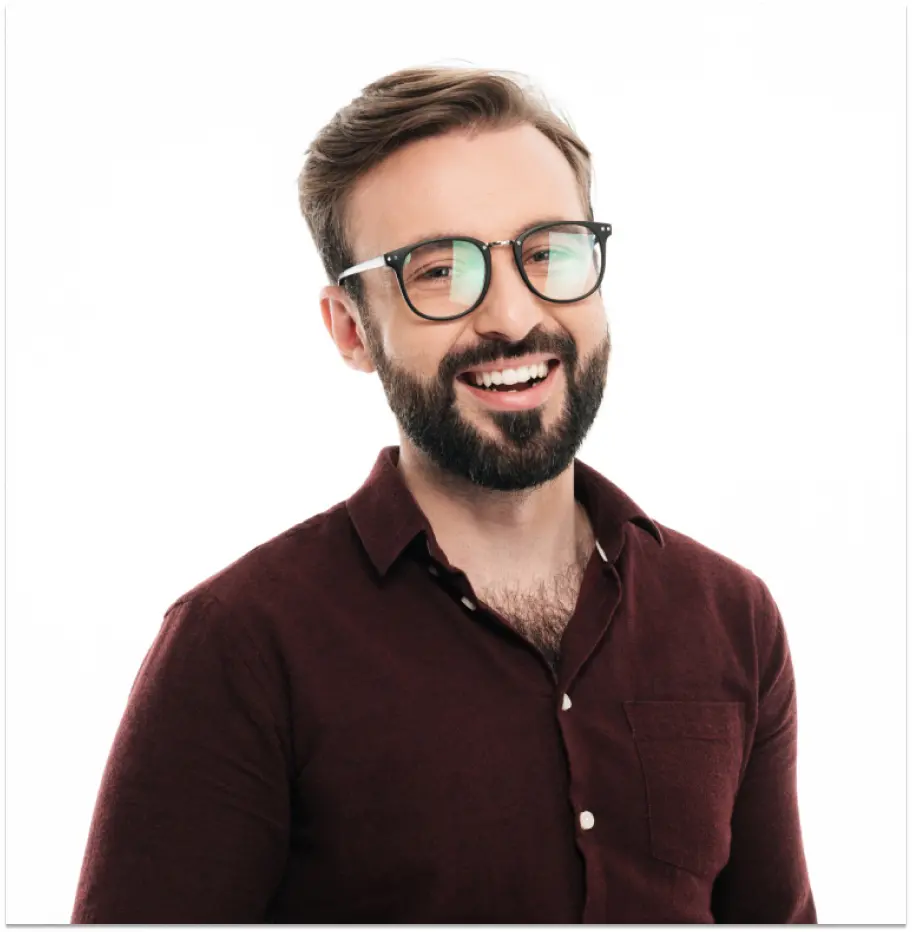
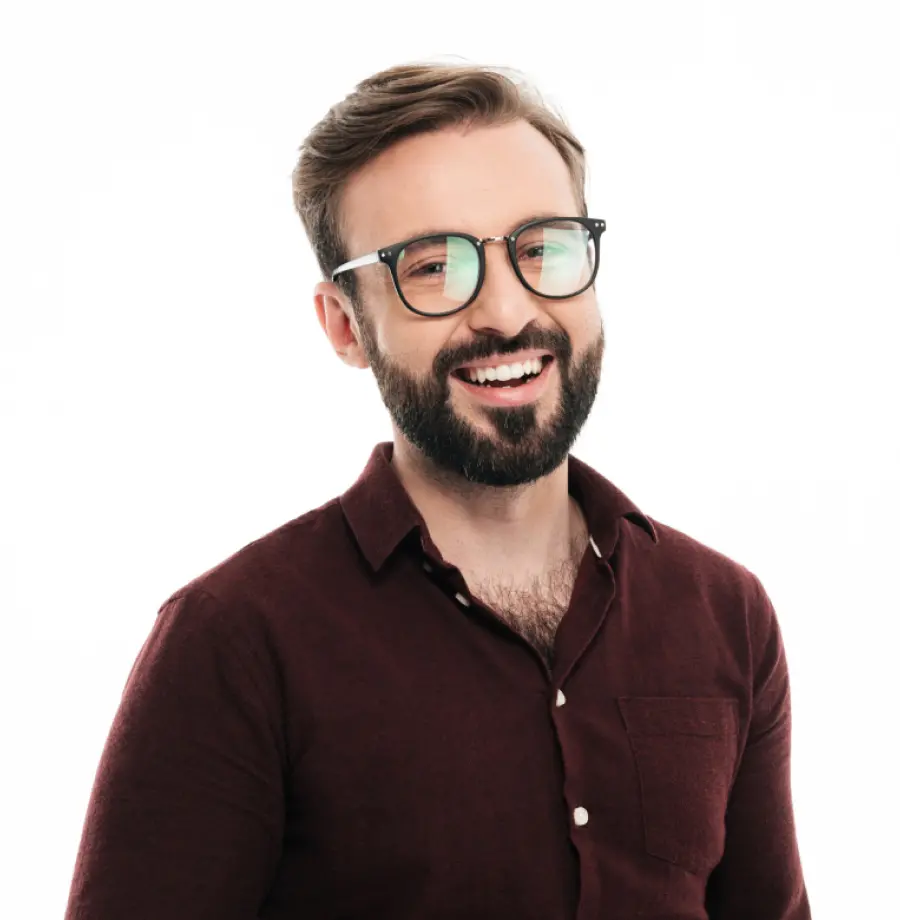
Делает отзывчивую верстку

diff --git a/index.html b/index.html
@@ -252,7 +252,34 @@
           <h2 class="command">Наша команда</h2>
           <ul class="teams-list">
             <li class="teams">
-              <img src="./img/card1.jpg" alt="card1" width="270" />
+              <picture>
+                <source
+                  srcset="
+                    ./img/comand/desktop/igor-270.jpg    1x,
+                    ./img/comand/desktop/igor-270-2x.jpg 2x,
+                    ./img/comand/desktop/igor-270-3x.jpg 3x
+                  "
+                  media="(min-width: 1200px)"
+                />
+                <source
+                  srcset="
+                    ./img/comand/tablet/igor-354.jpg    1x,
+                    ./img/comand/tablet/igor-354-2x.jpg 2x,
+                    ./img/comand/tablet/igor-354-3x.jpg 3x
+                  "
+                  media="(min-width: 768px)"
+                />
+                <source
+                  srcset="
+                    ./img/comand/mob/igor-480.jpg    1x,
+                    ./img/comand/mob/igor-480-2x.jpg 2x,
+                    ./img/comand/mob/igor-480-3x.jpg 3x
+                  "
+                  media="(max-width: 767px)"
+                />
+                <img src="./img/card1.jpg" alt="card1" width="270" />
+              </picture>
+
               <div class="name-pos">
                 <h3 class="name">Игорь Демьяненко</h3>
                 <p class="position">Product Designer</p>
@@ -305,7 +332,33 @@
               </div>
             </li>
             <li class="teams">
-              <img src="./img/card2.jpg" alt="card2" width="270" />
+              <picture>
+                <source
+                  srcset="
+                    ./img/comand/desktop/olga-270.jpg    1x,
+                    ./img/comand/desktop/olga-270-2x.jpg 2x,
+                    ./img/comand/desktop/olga-270-3x.jpg 3x
+                  "
+                  media="(min-width: 1200px)"
+                />
+                <source
+                  srcset="
+                    ./img/comand/tablet/olga-354.jpg    1x,
+                    ./img/comand/tablet/olga-354-2x.jpg 2x,
+                    ./img/comand/tablet/olga-354-3x.jpg 3x
+                  "
+                  media="(min-width: 768px)"
+                />
+                <source
+                  srcset="
+                    ./img/comand/mob/olga-480.jpg    1x,
+                    ./img/comand/mob/olga-480-2x.jpg 2x,
+                    ./img/comand/mob/olga-480-3x.jpg 3x
+                  "
+                  media="(max-width: 767px)"
+                />
+                <img src="./img/card2.jpg" alt="card2" width="270" />
+              </picture>
               <div class="name-pos">
                 <h3 class="name">Ольга Репина</h3>
                 <p class="position">Frontend Developer</p>
@@ -358,7 +411,34 @@
               </div>
             </li>
             <li class="teams">
-              <img src="./img/card3.jpg" alt="card3" width="270" />
+              <picture>
+                <source
+                  srcset="
+                    ./img/comand/desktop/nikolay-270.jpg    1x,
+                    ./img/comand/desktop/nikolay-270-2x.jpg 2x,
+                    ./img/comand/desktop/nikolay-270-3x.jpg 3x
+                  "
+                  media="(min-width: 1200px)"
+                />
+                <source
+                  srcset="
+                    ./img/comand/tablet/nikolay-354.jpg    1x,
+                    ./img/comand/tablet/nikolay-354-2x.jpg 2x,
+                    ./img/comand/tablet/nikolay-354-3x.jpg 3x
+                  "
+                  media="(min-width: 768px)"
+                />
+                <source
+                  srcset="
+                    ./img/comand/mob/nikolay-480.jpg    1x,
+                    ./img/comand/mob/nikolay-480-2x.jpg 2x,
+                    ./img/comand/mob/nikolay-480-3x.jpg 3x
+                  "
+                  media="(max-width: 767px)"
+                />
+                <img src="./img/card3.jpg" alt="card3" width="270" />
+              </picture>
+
               <div class="name-pos">
                 <h3 class="name">Николай Тарасов</h3>
                 <p class="position">Marketing</p>
@@ -411,7 +491,34 @@
               </div>
             </li>
             <li class="teams">
-              <img src="./img/card4.jpg" alt="card4" width="270" />
+              <picture>
+                <source
+                  srcset="
+                    ./img/comand/desktop/mihail-270.jpg    1x,
+                    ./img/comand/desktop/mihail-270-2x.jpg 2x,
+                    ./img/comand/desktop/mihail-270-3x.jpg 3x
+                  "
+                  media="(min-width: 1200px)"
+                />
+                <source
+                  srcset="
+                    ./img/comand/tablet/mihail-354.jpg    1x,
+                    ./img/comand/tablet/mihail-354-2x.jpg 2x,
+                    ./img/comand/tablet/mihail-354-3x.jpg 3x
+                  "
+                  media="(min-width: 768px)"
+                />
+                <source
+                  srcset="
+                    ./img/comand/mob/mihail-480.jpg    1x,
+                    ./img/comand/mob/mihail-480-2x.jpg 2x,
+                    ./img/comand/mob/mihail-480-3x.jpg 3x
+                  "
+                  media="(max-width: 767px)"
+                />
+                <img src="./img/card4.jpg" alt="card4" width="270" />
+              </picture>
+
               <div class="name-pos">
                 <h3 class="name">Михаил Ермаков</h3>
                 <p class="position">UI Designer</p>
